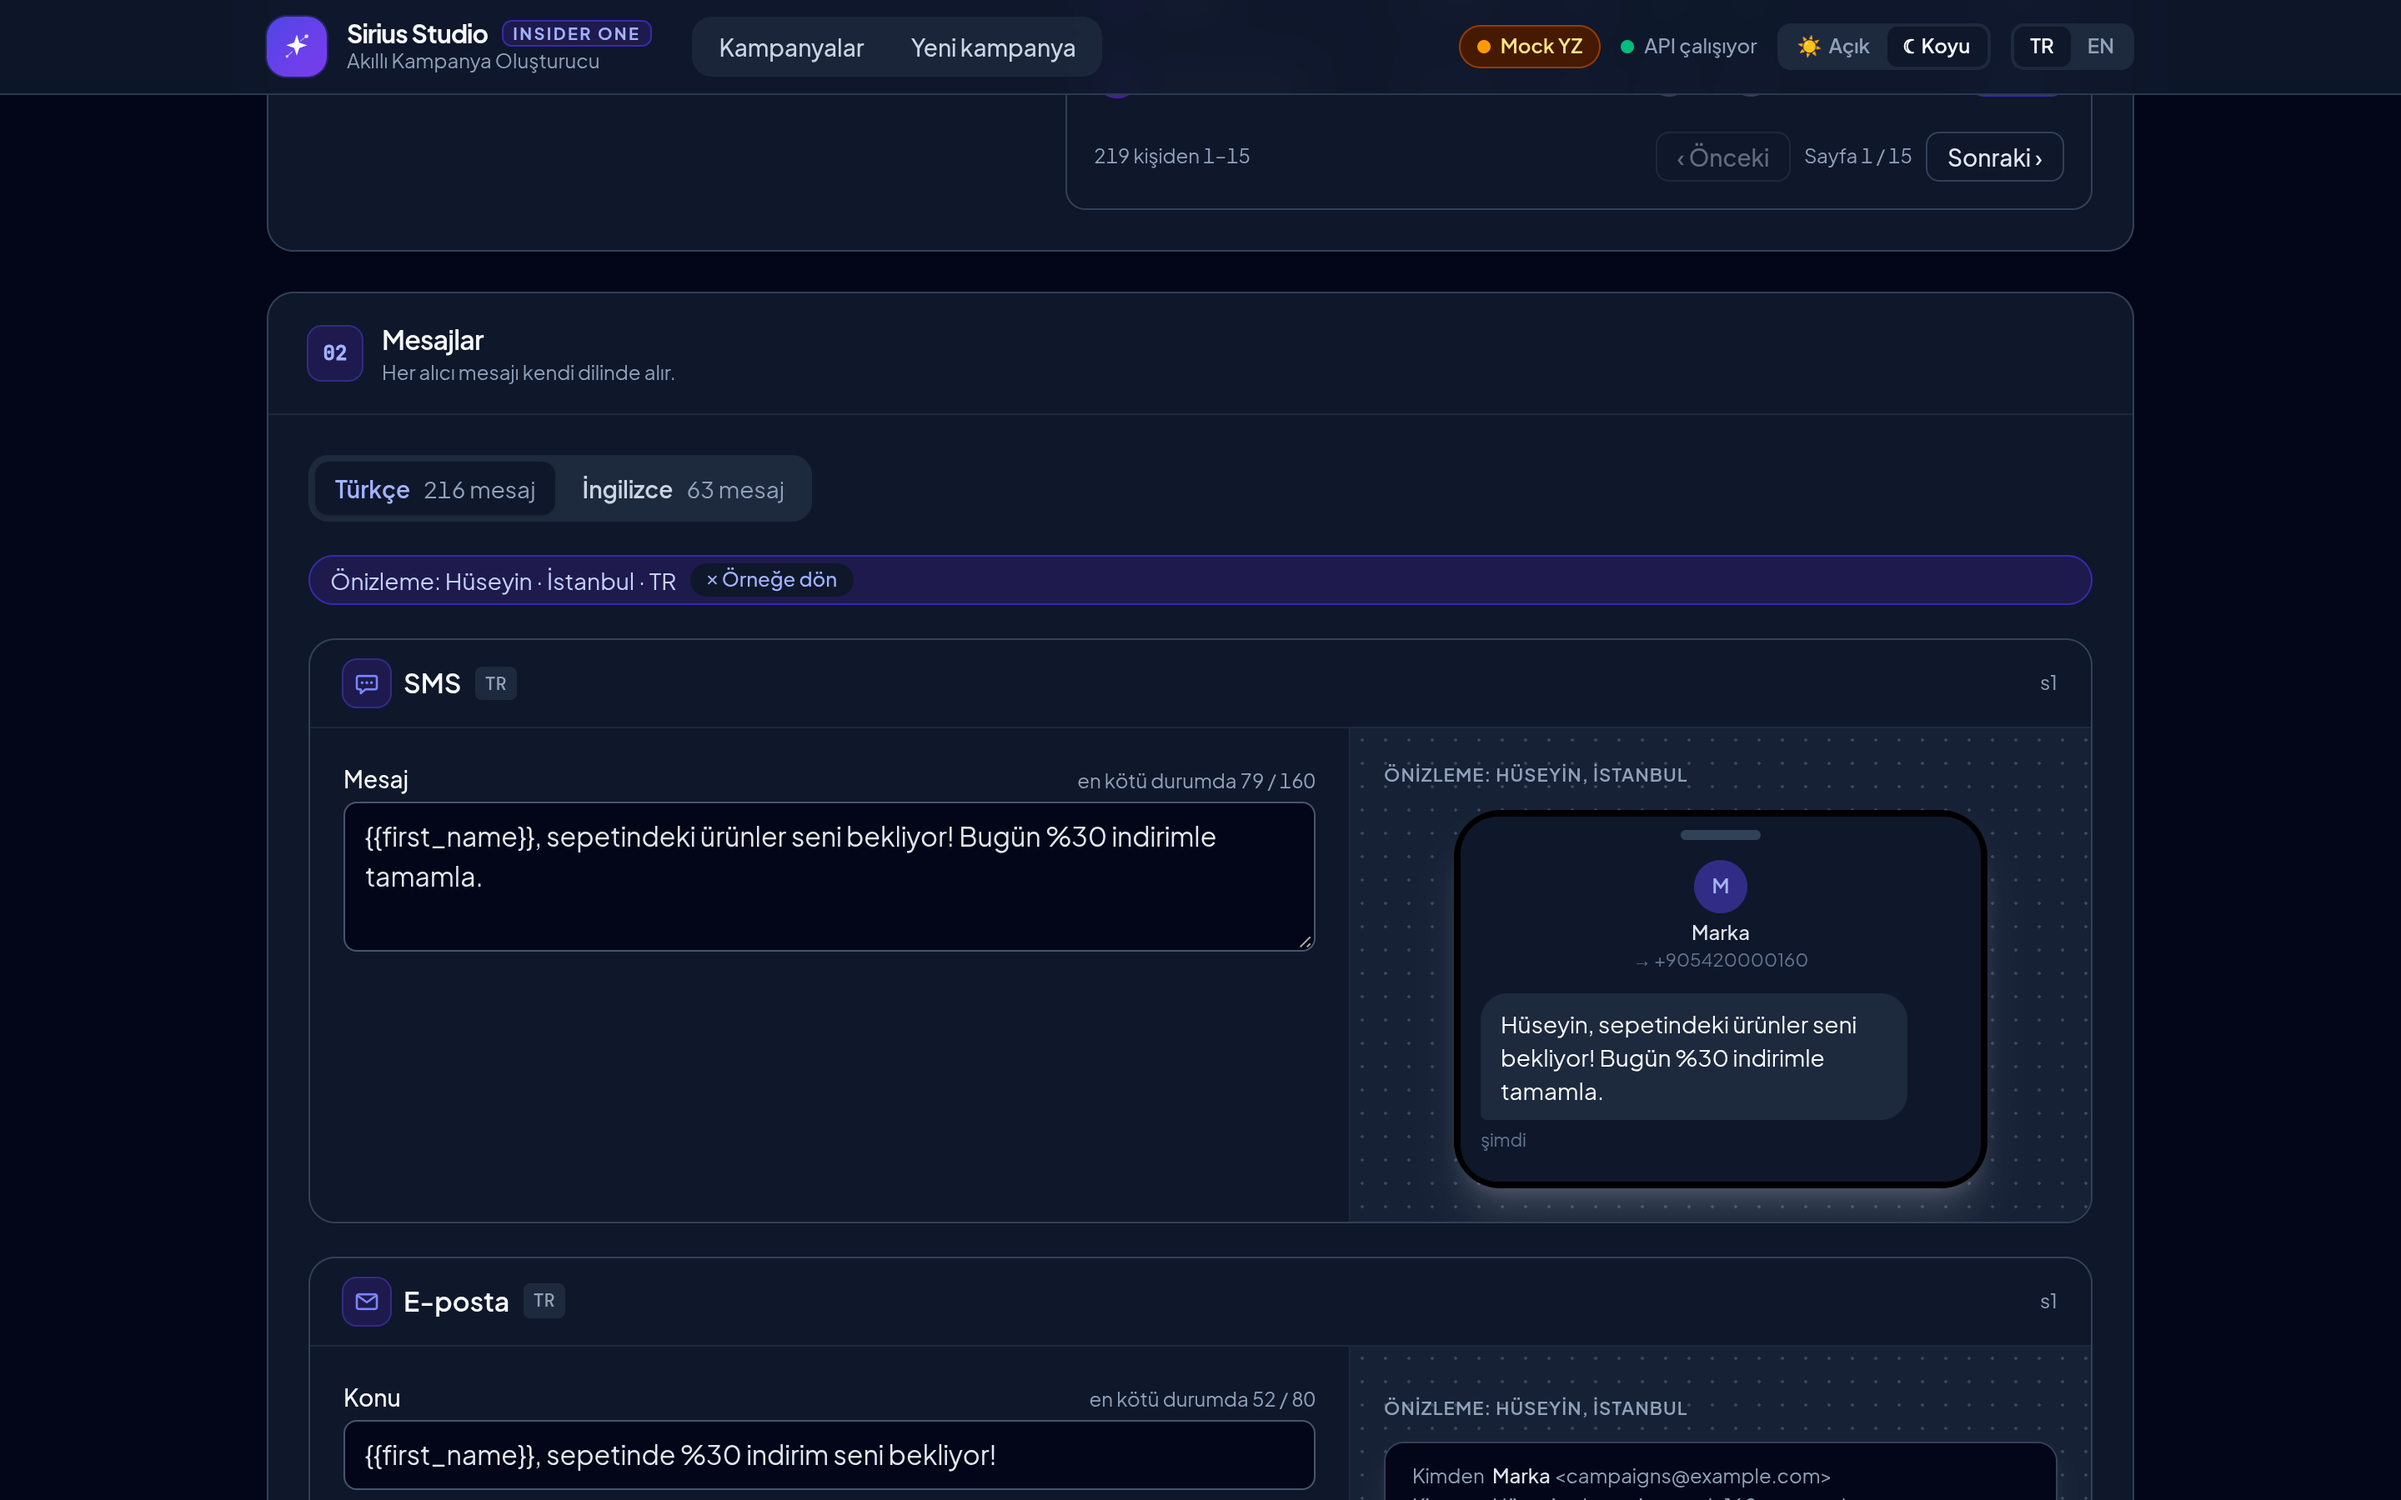
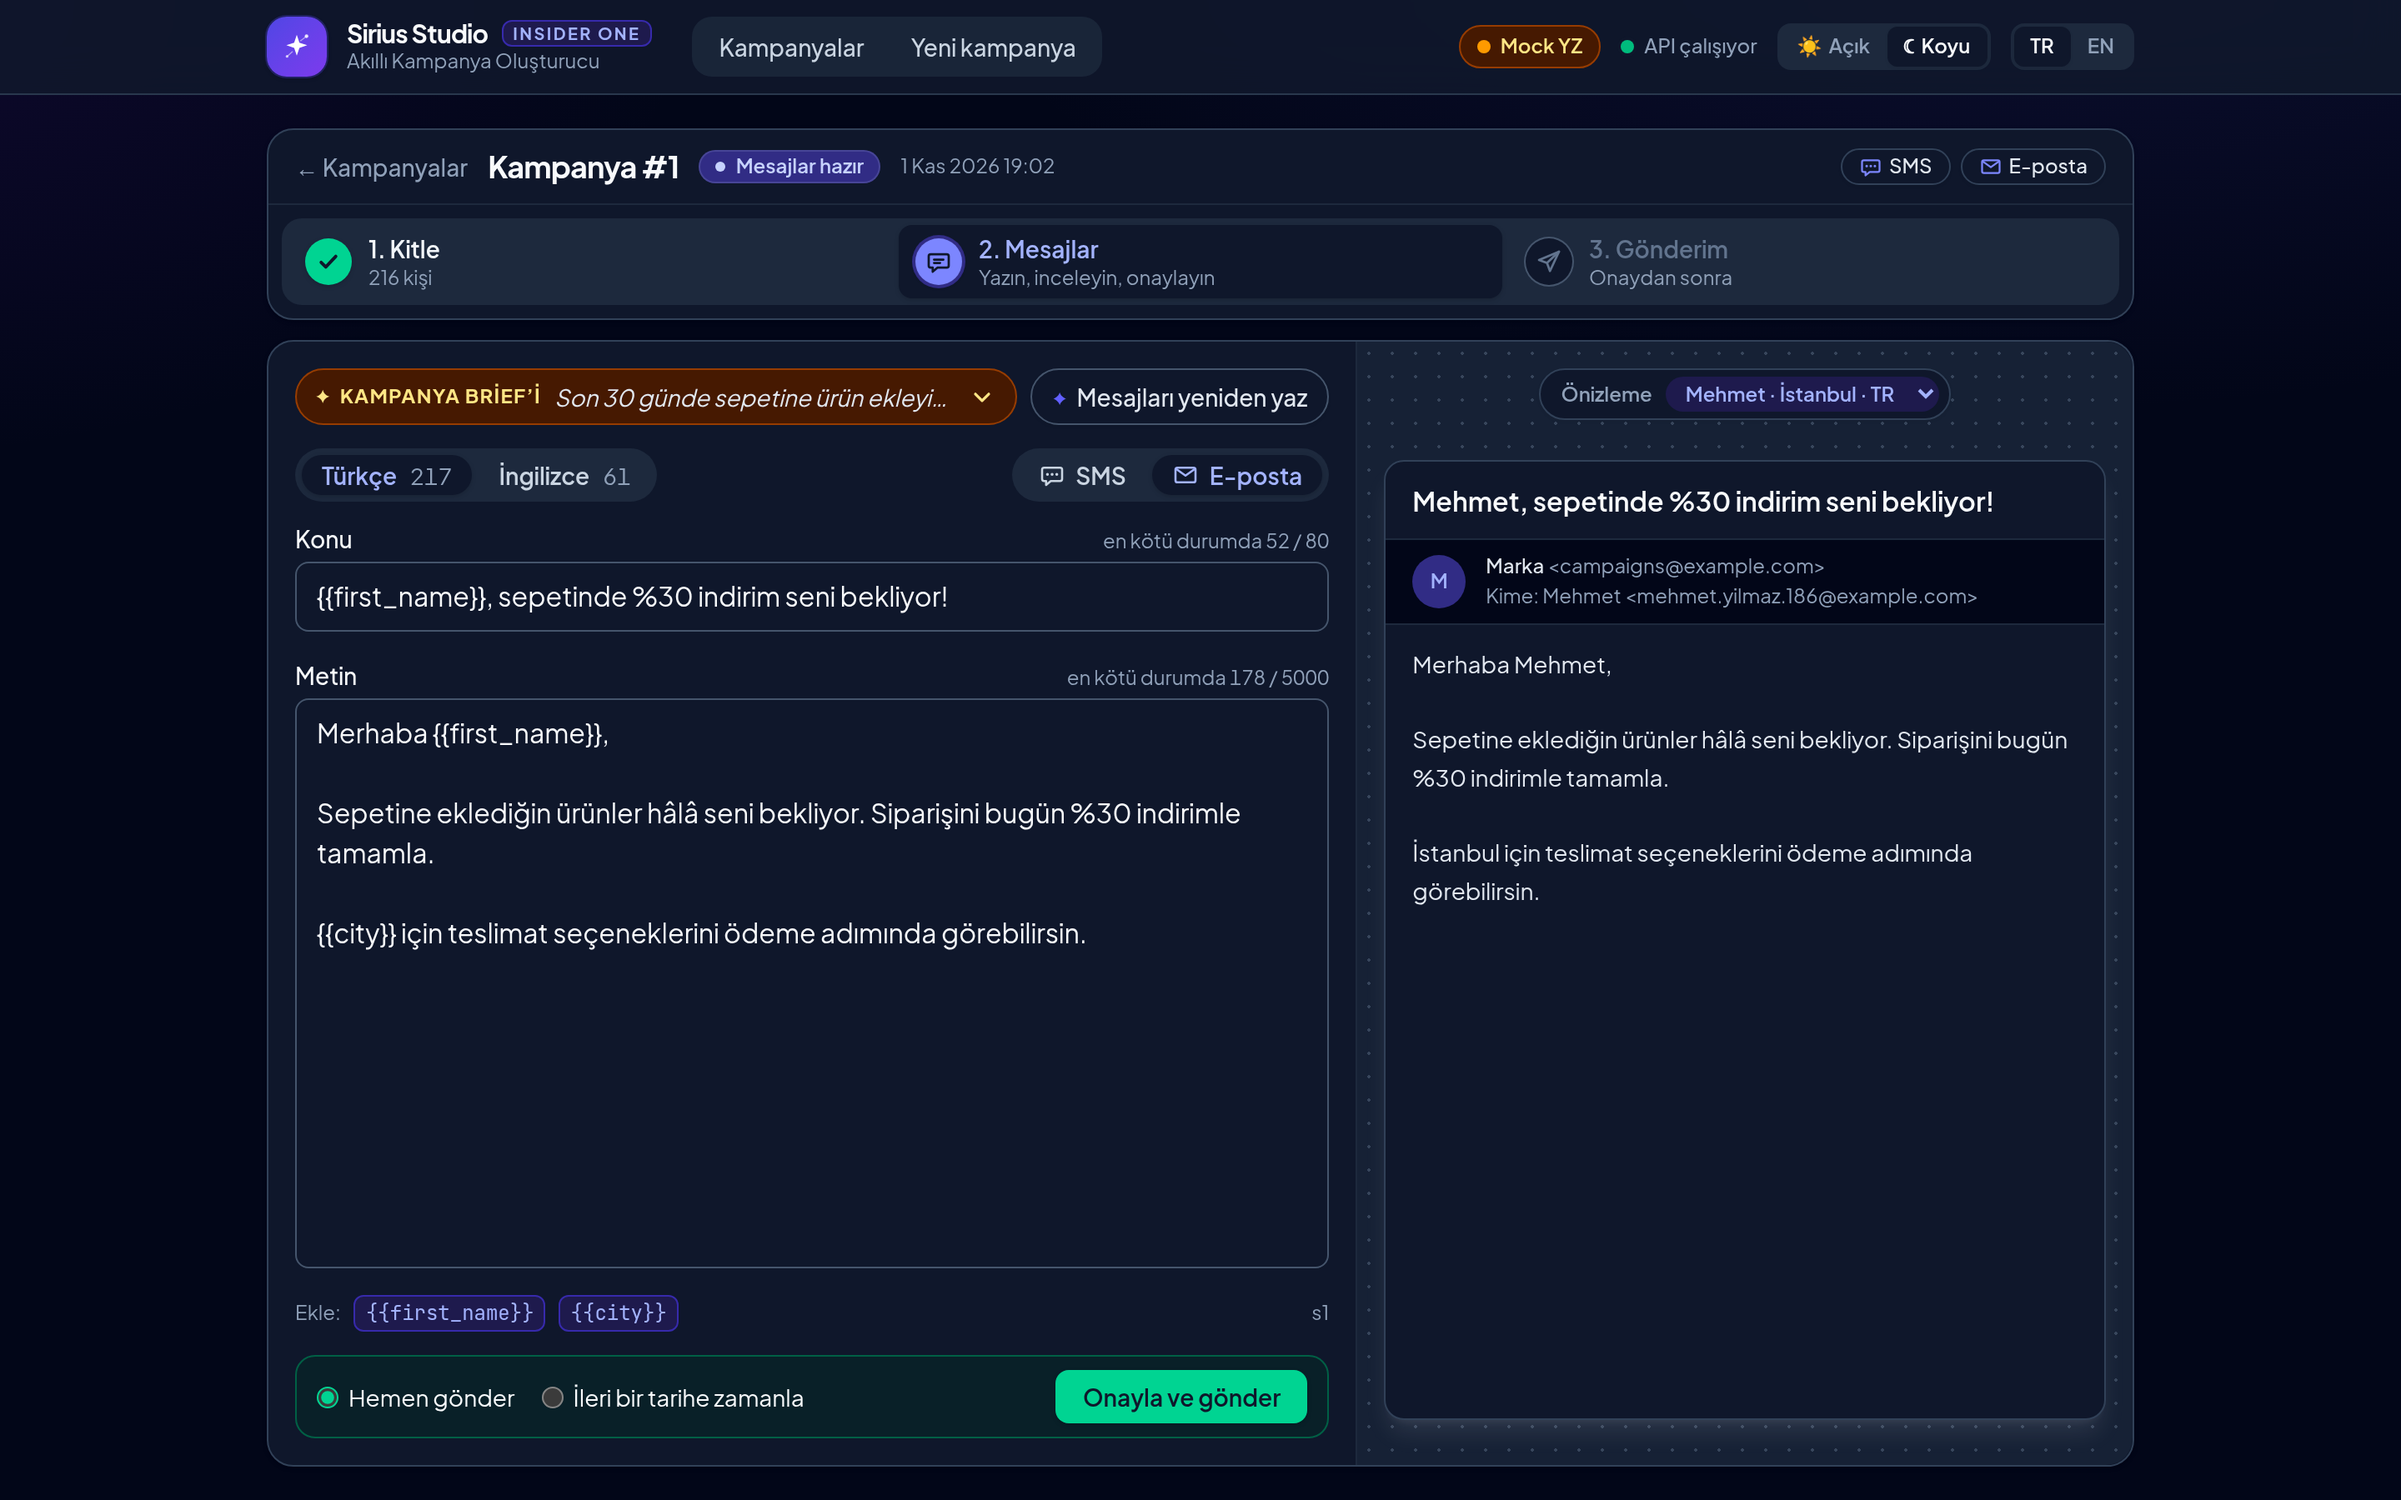
Retake the README showcase on the Message Studio
Both images now show Campaign #1 on a clean demo database: SMS in the warm
light theme and email in the dark theme.

diff --git a/README.md b/README.md
@@ -11,13 +11,14 @@ shows delivery status live.
 > Insider One · AI Developer Case Study. No real messages are ever sent: all
 > recipients are generated fake users and delivery goes to a local mock provider.
 
-The web app is branded **Sirius Studio**. A finished campaign, in light mode
-(English) and in dark mode (Turkish), previewing the messages as one of the
-matching people:
+The web app is branded **Sirius Studio**. The Message Studio fits one desktop
+screen: one channel's editor and the approval bar beside a live device preview,
+here previewing the messages as one of the matching people. SMS in the warm
+light theme (English interface), email in the dark theme (Turkish interface):
 
 | Light · EN | Dark · TR |
 | --- | --- |
-| ![Campaign page in light mode: hero card, step bar and delivery dashboard](docs/images/studio-light.png) | ![Messages section in dark mode: SMS editor beside the phone preview](docs/images/studio-dark.png) |
+| ![Message Studio in light mode: SMS editor and approval bar beside the phone preview](docs/images/studio-light.png) | ![Message Studio in dark mode: email editor and approval bar beside the inbox preview](docs/images/studio-dark.png) |
 
 ## Quick start
 
